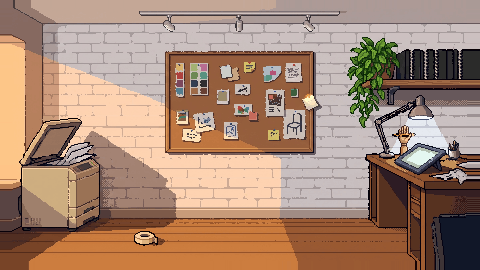
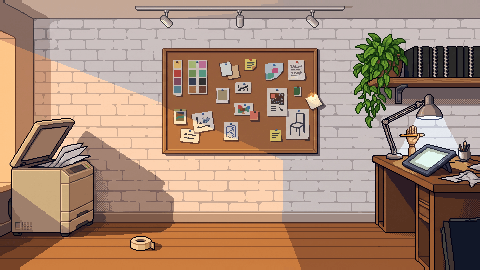
fix(pushback): scenes cut on their real 5.735 px pitch, the loops and stands remapped

diff --git a/src/lib/lab/pushback/characters.ts b/src/lib/lab/pushback/characters.ts
@@ -157,15 +157,15 @@ export const SCENE_OF: Record<Role | 'boss', SceneId> = {
  * move the stands a little once they exist.
  */
 export const STANDS: Record<SceneId, { left: number; right: number }> = {
-  // The desk islands reach in to x 117 and from x 363; the shelf with the
+  // The desk islands reach in to x 112 and from x 369; the shelf with the
   // build light sits between the duellists
-  floor: { left: 124, right: 284 },
-  // The fern stands at x 70 to 120 against the wall, the glass wall from 390
-  meeting: { left: 100, right: 320 },
-  // The printer ends at x 100, the desk starts at 365
-  studio: { left: 110, right: 280 },
-  // The cabinet ends at x 75, the desk spans 160 to 320, the putter is at 425
-  office: { left: 82, right: 328 },
+  floor: { left: 119, right: 286 },
+  // The fern stands at x 62 to 115 against the wall, the glass wall from 397
+  meeting: { left: 94, right: 324 },
+  // The printer ends at x 94, the desk starts at 371
+  studio: { left: 104, right: 282 },
+  // The cabinet ends at x 68, the desk spans 157 to 324, the putter is at 434
+  office: { left: 75, right: 332 },
 };
 
 // Player looks

diff --git a/src/lib/lab/pushback/stage.test.ts b/src/lib/lab/pushback/stage.test.ts
@@ -277,7 +277,7 @@ describe('barsLabel', () => {
 
 describe('viewFor', () => {
   it('centres the window on the duellists and puts the floor on the feet line', () => {
-    assert.deepEqual(viewFor({ left: 124, right: 284 }), { x: 80, y: 97 });
+    assert.deepEqual(viewFor({ left: 124, right: 284 }), { x: 80, y: 102 });
     // Clamped to the render
     assert.equal(viewFor({ left: 0, right: 60 }).x, 0);
     assert.equal(viewFor({ left: 400, right: 408 }).x, 160);

diff --git a/src/lib/lab/pushback/stage.ts b/src/lib/lab/pushback/stage.ts
@@ -30,7 +30,7 @@ import {
 export const STAGE = { width: 320, height: 214 } as const;
 
 /** The scene renders, and where their floor meets the feet */
-export const SCENE = { width: 480, height: 270, feet: 225 } as const;
+export const SCENE = { width: 480, height: 270, feet: 230 } as const;
 
 /** Where everything goes, in stage pixels */
 export const LAYOUT = {

diff --git a/docs/plans/pushback.md b/docs/plans/pushback.md
@@ -201,7 +201,7 @@ On attack: pick a random phrase from the opponent's pool, no repeats within a du
 
 ## Backgrounds
 
-Four scenes, one per opponent role and one for the boss, all made with the `pixel-header` pipeline: Gemini prompt with a header as style reference, `snap.mjs` to the native grid, a per-scene loop script for two or three living details. Target 480 by 270 native pixels (16:9, no 5:2 crop this time; a 1376 px Gemini render snaps at its native 3 px grid to about 458 wide, and `sheet.mjs` pads it to 480 by 270 by repeating the plain edge columns and rows, which is why the edges must stay plain), the same 32-colour, 3 to 4 shades per material look as the headers. Scenes carry no people; the sprites are the people.
+Four scenes, one per opponent role and one for the boss, all made with the `pixel-header` pipeline: Gemini prompt with a header as style reference, `snap.mjs` to the native grid, a per-scene loop script for two or three living details. Target 480 by 270 native pixels (16:9, no 5:2 crop this time; Gemini draws the 2752 px render as 480 columns of 5.735 px, `snap.mjs` fits that pitch and gets 478 by 266, and `scene.mjs` pads it to 480 by 270 by repeating the plain edge columns and rows, which is why the edges must stay plain; the first cut at a whole 6 px grid came out 458 wide, squashed and drifting, and the loop scripts' coordinates were remapped when it was redone), the same 32-colour, 3 to 4 shades per material look as the headers. Scenes carry no people; the sprites are the people.
 
 | Scene           | Used for           | Time and palette                                     | Where the duellists stand                                              | Living details (looped)                                                             |
 | --------------- | ------------------ | ---------------------------------------------------- | ---------------------------------------------------------------------- | ----------------------------------------------------------------------------------- |

diff --git a/.claude/skills/pixel-sprite/SKILL.md b/.claude/skills/pixel-sprite/SKILL.md
@@ -111,8 +111,10 @@ node .claude/skills/pixel-sprite/scenes/floor.mjs \
   src/assets/lab/pushback/scenes/floor/native.png src/assets/lab/pushback/scenes/floor
 ```
 
-`scene.mjs` snaps the render and pads or crops it to 480 by 270 by
-repeating the plain edge rows (`pad.mjs`). Each `scenes/<slug>.mjs` then
+`scene.mjs` snaps the render (480 columns of 5.735 px on a 2752 px render,
+so 478 by 266, from the original in `sources/originals/`) and pads or crops
+it to 480 by 270 by repeating the plain edge rows (`pad.mjs`). The loop
+scripts' coordinates are native pixels of that padded image. Each `scenes/<slug>.mjs` then
 animates two or three living details into `scene.webp` (8x, for the stage
 at 1.1x and up, shown through a 320 by 134 window), `scene-1x.webp` and `poster.png`, the way the note headers
 are built (pixel-header skill, steps 4 and 5). Check the result in the
